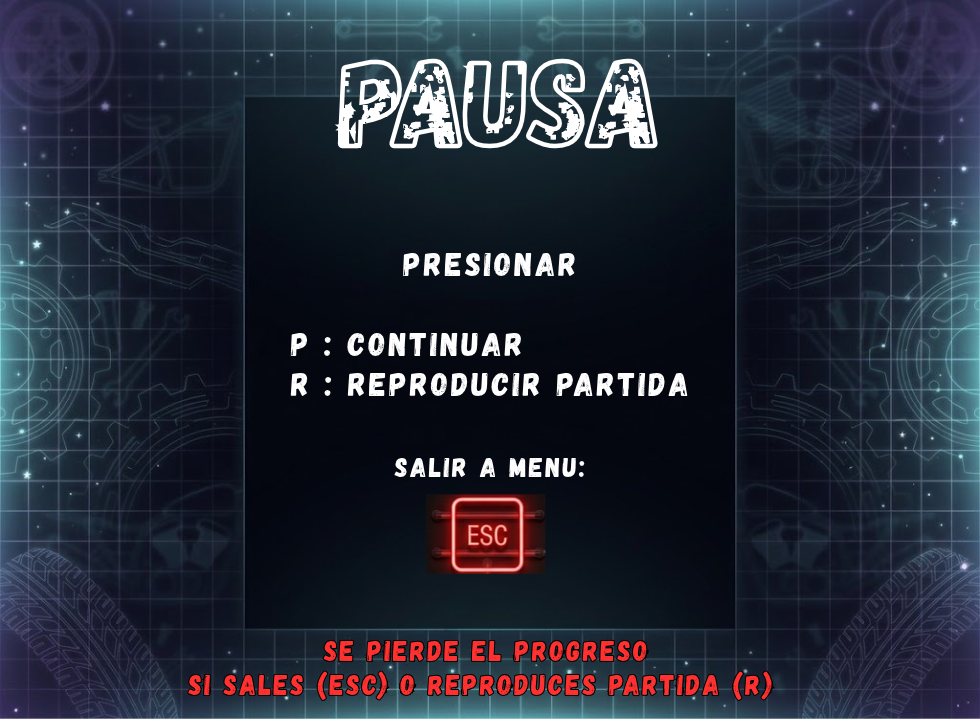
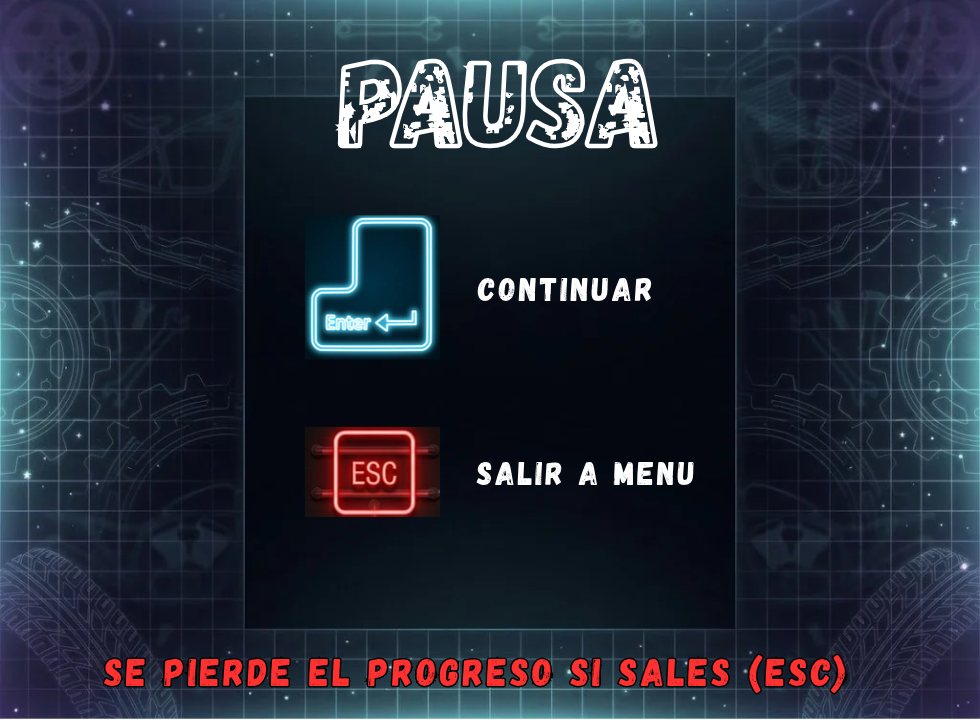
Arreglo de error en juego
se arreglo bug de regresar en estado JUGANDO

se implemento correctamente el replay con una funcion de registrarMovimiento();

Changed region(s): [[0.2755, 0.275, 0.7041, 0.55], [0.0918, 0.8861, 0.8878, 0.9778], [0.3061, 0.5806, 0.7347, 0.7944]]

diff --git a/Juego.cpp b/Juego.cpp
@@ -72,6 +72,10 @@ void Juego::generarPieza() {
         return;
     }
 
+    registrarMovimiento();
+}
+
+void Juego::registrarMovimiento() {
     Estado e;
     capturarEstado(e);
     historial.agregarEstado(e);
@@ -86,6 +90,7 @@ void Juego::gravedad() {
     bool puede = piezaPuede(filaActual + 1, colActual, rotActual);
     if (puede) {
         filaActual = filaActual + 1;
+        registrarMovimiento();
     } else {
         bloquearPieza();
     }
@@ -100,6 +105,7 @@ void Juego::caerInstantaneo() {
         puede = piezaPuede(filaActual + 1, colActual, rotActual);
     }
     puntaje = puntaje + 2 * pasos;
+    registrarMovimiento();
     bloquearPieza();
 }
 
@@ -118,9 +124,7 @@ void Juego::bloquearPieza() {
         }
         nFilasBorrar = n;
         parpadeoMs = 0;
-        Estado e;
-        capturarEstado(e);
-        historial.agregarEstado(e);
+        registrarMovimiento();
         return;
     }
 
@@ -235,21 +239,6 @@ void Juego::restaurarEstado(const Estado& e) {
     relojGravedad.restart();
 }
 
-void Juego::deshacer() {
-    bool ok = historial.deshacer();
-    if (ok) {
-        restaurarEstado(historial.obtenerActual());
-        estado = JUGANDO;
-    }
-}
-
-void Juego::rehacer() {
-    bool ok = historial.rehacer();
-    if (ok) {
-        restaurarEstado(historial.obtenerActual());
-    }
-}
-
 void Juego::iniciarReplay() {
     replayDesdeGameOver = (estado == GAME_OVER);
     historial.irAlInicio();
@@ -278,6 +267,7 @@ void Juego::usarHold() {
         filaActual = PIEZA_SPAWN_FILA;
         colActual = PIEZA_SPAWN_COL;
         holdUsado = true;
+        registrarMovimiento();
 
         if (!piezaPuede(filaActual, colActual, rotActual)) {
             estado = GAME_OVER;
@@ -406,12 +396,14 @@ void Juego::pasoReplayAdelante() {
 void Juego::moverIzquierda() {
     if (piezaPuede(filaActual, colActual - 1, rotActual)) {
         colActual = colActual - 1;
+        registrarMovimiento();
     }
 }
 
 void Juego::moverDerecha() {
     if (piezaPuede(filaActual, colActual + 1, rotActual)) {
         colActual = colActual + 1;
+        registrarMovimiento();
     }
 }
 
@@ -419,6 +411,7 @@ void Juego::rotar() {
     int nuevaRot = (rotActual + 1) % 4;
     if (piezaPuede(filaActual, colActual, nuevaRot)) {
         rotActual = nuevaRot;
+        registrarMovimiento();
     }
 }
 
@@ -426,6 +419,7 @@ void Juego::bajarSuave() {
     if (piezaPuede(filaActual + 1, colActual, rotActual)) {
         filaActual = filaActual + 1;
         puntaje = puntaje + 1;
+        registrarMovimiento();
     } else {
         bloquearPieza();
     }

diff --git a/GestorUI.cpp b/GestorUI.cpp
@@ -126,12 +126,8 @@ void GestorUI::procesarEventos(sf::Event& evento, Juego& contexto) {
             contexto.bajarSuave();
         } else if (tecla == Keyboard::Space) {
             contexto.caerInstantaneo();
-        } else if (tecla == Keyboard::C) {
+} else if (tecla == Keyboard::C) {
             contexto.usarHold();
-        } else if (tecla == Keyboard::D) {
-            contexto.deshacer();
-        } else if (tecla == Keyboard::A) {
-            contexto.rehacer();
         } else if (tecla == Keyboard::P || tecla == Keyboard::Escape) {
             contexto.pausar();
         }

diff --git a/Juego.h b/Juego.h
@@ -74,6 +74,7 @@ private:
     int puntajePorLineas(int n) const;
     void capturarEstado(Estado& e) const;
     void restaurarEstado(const Estado& e);
+    void registrarMovimiento();
 
 public:
     Juego();
@@ -100,8 +101,6 @@ public:
     void bajarSuave();
     void caerInstantaneo();
     void usarHold();
-    void deshacer();
-    void rehacer();
 
     // Entrada de nombre (fin de partida)
     void agregarLetra(char c);
